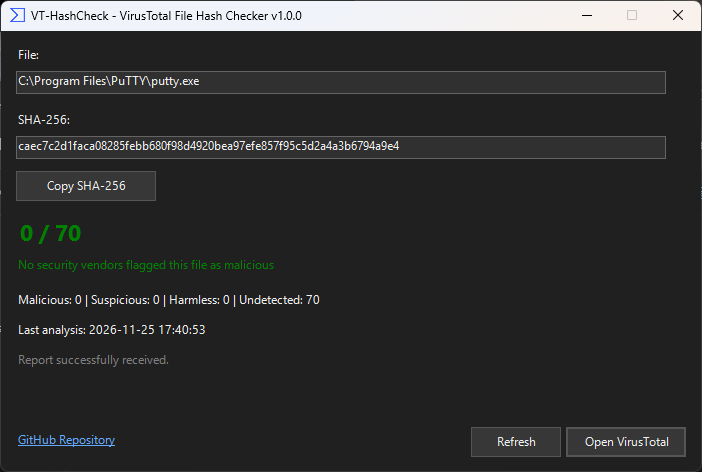
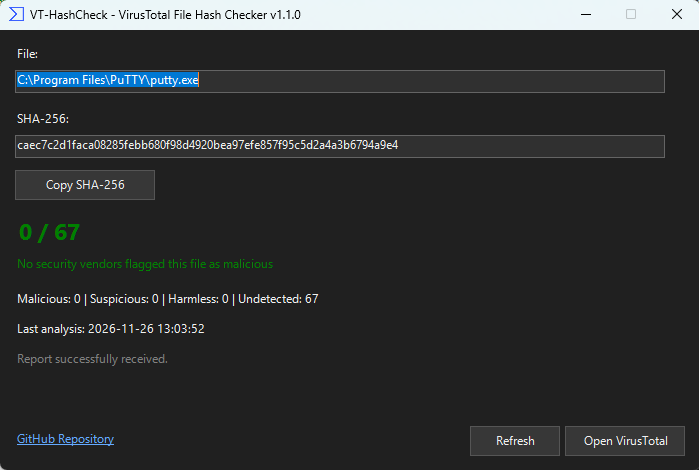
Refactoring
- Installation and uninstallation are now handled by the VT-HashCheck.ps1 script
- Removed the Install-VT-HashCheck.ps1 script
- Added command-line usage without requiring the context menu

diff --git a/README.md b/README.md
@@ -23,6 +23,7 @@ This project only implements requests to the publicly available VirusTotal API. 
 ## Features
 
 - Windows context menu integration – check any file directly from File Explorer.
+- Command-line file checking – launch the script manually with a file path, without installing the context menu.
 - SHA-256 calculation – automatically calculate the selected file's hash.
 - VirusTotal API v3 integration – retrieve existing file analysis reports.
 - Detection statistics – display malicious, suspicious, harmless, and undetected results.
@@ -49,7 +50,7 @@ https://www.virustotal.com/gui/my-apikey
 
 ## Installation
 
-1. Download the repository
+### 1. Download the repository
 
 Clone the repository or download it as a ZIP archive and extract it to any convenient folder.
 
@@ -62,19 +63,16 @@ C:\Apps\VT-HashCheck\
 Expected directory structure:
 
 ```text
-VirusTotal/
+VT-HashCheck/
 ├── VT-HashCheck.ps1
-├── Install-VT-HashCheck.ps1
 ├── VirusTotal.ico
 ├── LICENSE
 └── README.md
 ```
 
-The virustotal-api.key file will be created manually in the next step.
+The `virustotal-api.key` file will be created manually in the next step.
 
-**Important**: Keep VT-HashCheck.ps1 and Install-VT-HashCheck.ps1 in the same directory.
-
-2. Configure the API key
+### 2. Configure the API key
 
 Create a text file named:
 
@@ -82,19 +80,19 @@ Create a text file named:
 virustotal-api.key
 ```
 
-Paste your VirusTotal API key into this file and save it in the same directory as VT-HashCheck.ps1.
+Paste your VirusTotal API key into this file and save it in the same directory as `VT-HashCheck.ps1`.
 
-Important: Never share your API key or commit virustotal-api.key to a public repository.
+Important: Never share your API key or commit `virustotal-api.key` to a public repository.
 
-3. Install the context menu entry
+### 3. Install the context menu entry
 
 Open PowerShell and run the installer from the extracted repository directory:
 
 ```powershell
-powershell.exe -NoProfile -ExecutionPolicy Bypass -File ".\Install-VT-HashCheck.ps1"
+powershell.exe -NoProfile -ExecutionPolicy Bypass -File ".\VT-HashCheck.ps1" -Install
 ```
 
-The installer automatically detects its own directory and registers the correct paths to VT-HashCheck.ps1 and VirusTotal.ico.
+The installer automatically detects its own directory and registers the correct paths to `VT-HashCheck.ps1` and `VirusTotal.ico`.
 
 The application can be installed in any directory. No administrator privileges are required because the context menu integration is registered under the current user's registry.
 
@@ -102,42 +100,66 @@ If you move the application to another directory, run the installer again to upd
 
 ## Usage
 
-- Open Windows File Explorer.
-- Right-click any file.
-- Select Show more options if necessary.
-- Click Check hash on VirusTotal.
-- Wait for the SHA-256 calculation and VirusTotal report.
+### Windows Context Menu
+
+After installation:
+
+1. Open Windows File Explorer.
+2. Right-click any file.
+3. Select **Show more options** if necessary.
+4. Click **VT-HashCheck: Check hash on VirusTotal**.
+5. Wait for the SHA-256 calculation and VirusTotal report.
+
+### Command-Line Usage (without context menu)
+
+You can also check files by launching the PowerShell script directly. Installing the Windows context menu is not required.
+
+Open PowerShell or Windows Terminal and execute:
+
+```powershell
+powershell.exe -NoProfile -ExecutionPolicy Bypass -File ".\VT-HashCheck.ps1" -FilePath "C:\Path\To\File.exe"
+```
+
+Replace the example path with the actual path to the file you want to check.
+
+For example:
+
+```powershell
+powershell.exe -NoProfile -ExecutionPolicy Bypass -File ".\VT-HashCheck.ps1" -FilePath "C:\Program Files\PuTTY\putty.exe"
+```
+
+File paths containing spaces must be enclosed in quotation marks.
+
+The application will open its GUI, calculate the file's SHA-256 hash, and retrieve the existing VirusTotal analysis report.
+
+**Note**: Command-line mode and context menu mode use the same functionality and API key configuration. The API key must be stored in `virustotal-api.key` in the application directory.
 
 ## Security and Privacy
 
 - Files are not uploaded by this utility.
 - Only the file's SHA-256 hash is sent to VirusTotal for report lookup.
-- The API key is stored locally in virustotal-api.key.
+- The API key is stored locally in `virustotal-api.key`.
 - The API key should never be included in public commits.
 - API requests are made using the official VirusTotal API v3 in accordance with its usage restrictions and limits.
 
-
 ## Uninstallation
 
-To remove the context menu entry, execute the following command in PowerShell:
+To remove the context menu entry, execute the following command in PowerShell from the application directory:
 
 ```powershell
-Remove-Item 'Registry::HKEY_CURRENT_USER\Software\Classes\*\shell\VirusTotalHash' -Recurse -Force
+powershell.exe -NoProfile -ExecutionPolicy Bypass -File ".\VT-HashCheck.ps1" -Uninstall
 ```
 
 This removes the context menu integration from Windows File Explorer.
 
 Afterwards, you can safely delete the application directory, including:
 
-- VT-HashCheck.ps1
-- Install-VT-HashCheck.ps1
-- VirusTotal.ico
-- virustotal-api.key
+- `VT-HashCheck.ps1`
+- `VirusTotal.ico`
+- `virustotal-api.key`
 
 No additional cleanup is required.
 
 ## License
 
 Licensed under the GNU General Public License v3.0 (GPL-3.0).
-
-See LICENSE for the full license text.
